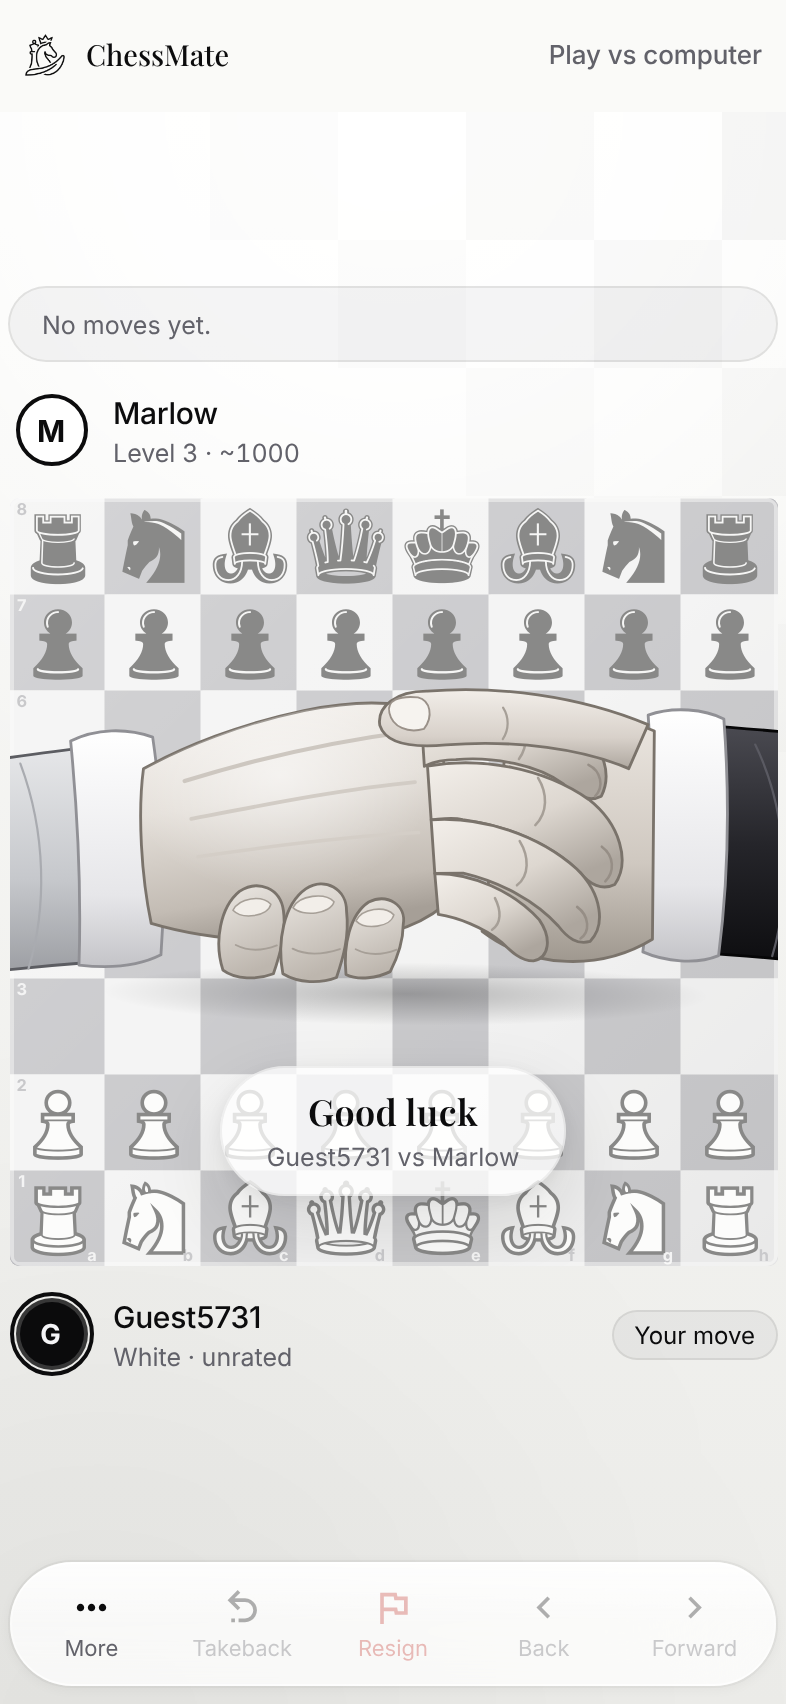
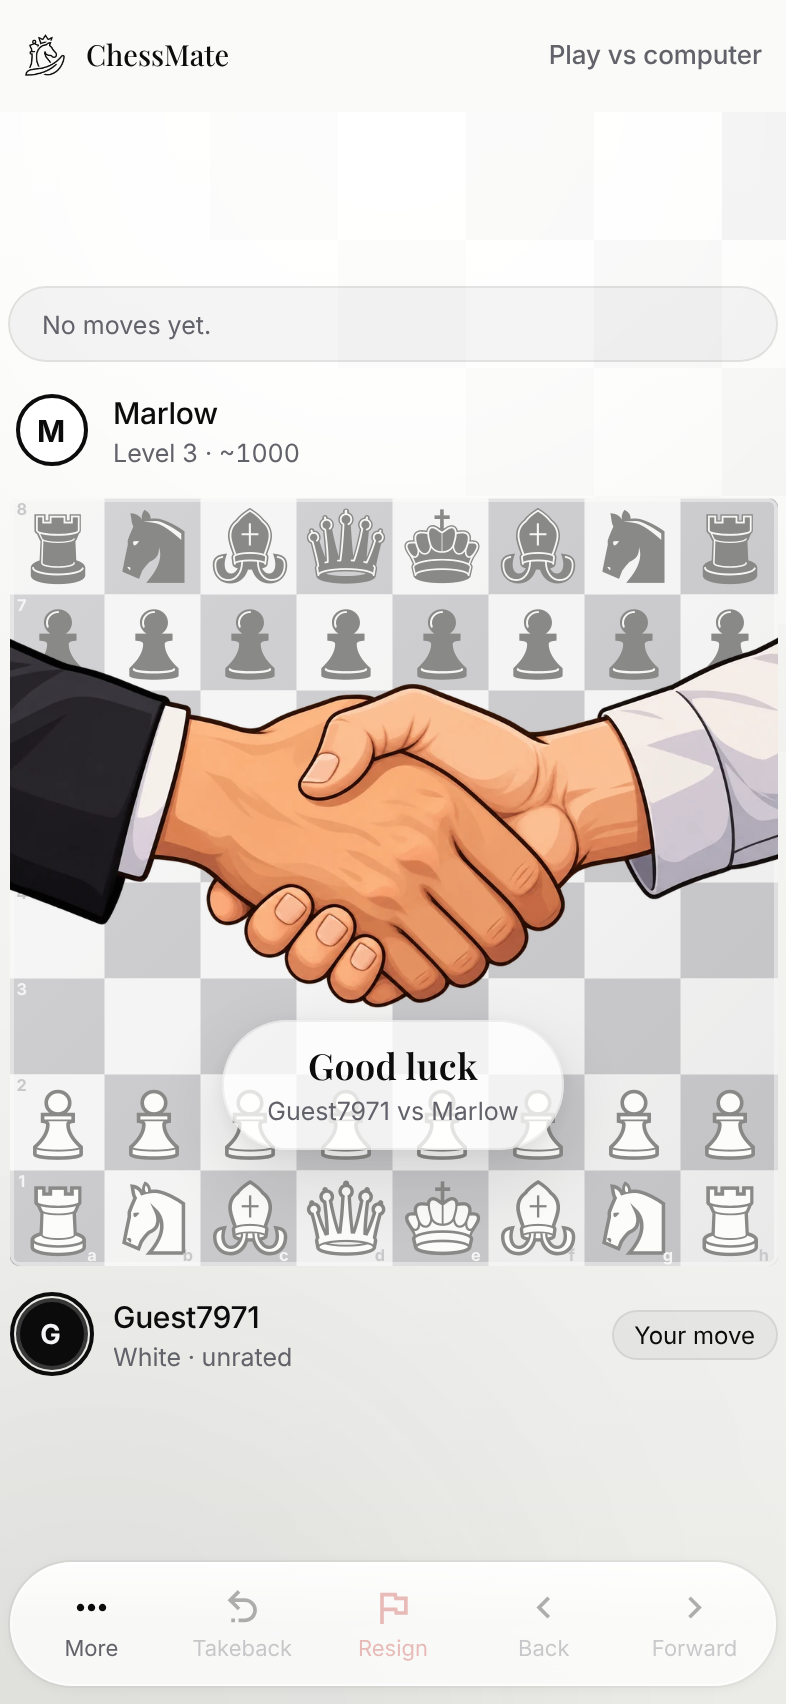
Handshake: use Ahmad's real-looking handshake artwork
Replaces the drawn SVG hands with the supplied image (cropped, 1200 px
WebP with transparency, 71 KB). It comes in, grips, and pumps three
times with a slight elbow swing, then fades; timing, pass-through
touches and the early cut on a move are unchanged.

Claude-Session: https://claude.ai/code/session_01WrkHo5HupAKxnnFKZucVZr

Changed region(s): [[0.0, 0.3732, 1.0, 0.7154], [0.2443, 0.7465, 0.3359, 0.7776]]

diff --git a/apps/app/src/components/play/GameStartHandshake.tsx b/apps/app/src/components/play/GameStartHandshake.tsx
@@ -1,14 +1,13 @@
 import { useCallback, useEffect, useState } from 'react';
 import { StyleSheet, View } from 'react-native';
 import Animated, { Easing, useAnimatedStyle, useReducedMotion, useSharedValue, withDelay, withSequence, withTiming } from 'react-native-reanimated';
-import Svg, { Defs, Ellipse, G, LinearGradient, Path, RadialGradient, Stop } from 'react-native-svg';
 
 import { useT } from '@/i18n';
 import { Text, rimShadow, shadows, useColors } from '@/ui';
 
 /** How long the intro lasts from mount to gone, in ms. */
 export const HANDSHAKE_MS = 1500;
-const ENTER_MS = 360;
+const ENTER_MS = 320;
 const SHAKE_AT = 400;
 const LEAVE_AT = 1200;
 const LEAVE_MS = 290;
@@ -45,167 +44,19 @@ export function useGameStartHandshake(key: string | null, moves: number) {
   return { active, cut: active && moves > 0, done };
 }
 
-// Black-and-white figures drawn like a photo in monochrome: the white player's arm comes in
-// from the left in a light-grey suit, the black player's from the right in a black one. The
-// left hand shows its back, fingers wrapped round the other palm; the right hand's thumb lies
-// over its knuckles and its fingertips curl round the palm edge, as in a real handshake.
-// The view box crops to the clasp; the sleeves run past it and are cut by the board's edge.
-const VB_X = 60;
-const VB_Y = 40;
-const VB_W = 280;
-const VB_H = 154;
-const VIEW_BOX = `${VB_X} ${VB_Y} ${VB_W} ${VB_H}`;
-const LINE = '#7A736B';
-const CREASE = '#A69F97';
-
-/** The black player's sleeve, cuff and the heel of the hand, behind the clasp. */
-function RightBack() {
-  return (
-    <Svg width="100%" height="100%" viewBox={VIEW_BOX}>
-      <Defs>
-        <LinearGradient id="hsSuitR" x1="0" y1="0" x2="0" y2="1">
-          <Stop offset="0" stopColor="#4A4A51" />
-          <Stop offset="0.45" stopColor="#25252A" />
-          <Stop offset="1" stopColor="#08080A" />
-        </LinearGradient>
-        <LinearGradient id="hsCuffR" x1="0" y1="0" x2="0" y2="1">
-          <Stop offset="0" stopColor="#FFFFFF" />
-          <Stop offset="0.7" stopColor="#E6E6E9" />
-          <Stop offset="1" stopColor="#C4C4C8" />
-        </LinearGradient>
-        <LinearGradient id="hsHeel" x1="0" y1="0" x2="0" y2="1">
-          <Stop offset="0" stopColor="#EBE6E0" />
-          <Stop offset="0.6" stopColor="#CFC8C0" />
-          <Stop offset="1" stopColor="#9F988F" />
-        </LinearGradient>
-        <RadialGradient id="hsShadow" cx="0.5" cy="0.5" r="0.5">
-          <Stop offset="0" stopColor="#000" stopOpacity={0.25} />
-          <Stop offset="1" stopColor="#000" stopOpacity={0} />
-        </RadialGradient>
-      </Defs>
-      <Ellipse cx={204} cy={178} rx={96} ry={10} fill="url(#hsShadow)" />
-      <G strokeWidth={0.9} strokeLinejoin="round" strokeLinecap="round">
-        <Path d="M296 92 C 330 94, 370 98, 420 104 L 420 176 C 370 170, 330 166, 296 164 Z" fill="url(#hsSuitR)" stroke="#060607" />
-        <Path d="M314 98 C 324 118, 326 144, 320 165" fill="none" stroke="#5A5A62" strokeWidth={0.7} />
-        <Path d="M280 89 C 288 86, 298 87, 304 90 C 306 114, 306 140, 303 165 C 296 168, 286 167, 279 164 C 282 140, 282 114, 280 89 Z" fill="url(#hsCuffR)" stroke="#909095" />
-        <Path d="M282 94 C 268 88, 250 88, 236 92 L 228 158 C 244 170, 266 170, 282 160 Z" fill="url(#hsHeel)" stroke={LINE} />
-      </G>
-    </Svg>
-  );
-}
-
-/** The white player's arm: sleeve, cuff, the back of the hand and the four fingers wrapped round. */
-function LeftArm() {
-  const hand =
-    'M121 106 C 134 99, 152 92, 172 88 C 188 85, 202 85, 211 89 C 218 102, 220 128, 216 150 C 204 160, 186 162, 168 161 C 152 161, 136 159, 123 155 C 120 140, 119 120, 121 106 Z';
-  return (
-    <Svg width="100%" height="100%" viewBox={VIEW_BOX}>
-      <Defs>
-        <LinearGradient id="hsSuitL" x1="0" y1="0" x2="0" y2="1">
-          <Stop offset="0" stopColor="#E6E7E9" />
-          <Stop offset="0.5" stopColor="#C6C8CC" />
-          <Stop offset="1" stopColor="#8C8E93" />
-        </LinearGradient>
-        <LinearGradient id="hsCuffL" x1="0" y1="0" x2="0" y2="1">
-          <Stop offset="0" stopColor="#FFFFFF" />
-          <Stop offset="0.7" stopColor="#E6E6E9" />
-          <Stop offset="1" stopColor="#C4C4C8" />
-        </LinearGradient>
-        <LinearGradient id="hsBack" x1="0" y1="0" x2="0.2" y2="1">
-          <Stop offset="0" stopColor="#F6F3EF" />
-          <Stop offset="0.45" stopColor="#E4DFD9" />
-          <Stop offset="0.85" stopColor="#C3BCB4" />
-          <Stop offset="1" stopColor="#A69F97" />
-        </LinearGradient>
-        <RadialGradient id="hsGloss" cx="0.45" cy="0.3" r="0.5">
-          <Stop offset="0" stopColor="#FFF" stopOpacity={0.55} />
-          <Stop offset="1" stopColor="#FFF" stopOpacity={0} />
-        </RadialGradient>
-        <LinearGradient id="hsFinger" x1="0" y1="0" x2="0.6" y2="1">
-          <Stop offset="0" stopColor="#F3EFEA" />
-          <Stop offset="0.55" stopColor="#DDD7D0" />
-          <Stop offset="1" stopColor="#ADA69E" />
-        </LinearGradient>
-      </Defs>
-      <G stroke={LINE} strokeWidth={0.9} strokeLinejoin="round" strokeLinecap="round">
-        <Path d="M-20 114 C 20 110, 60 104, 104 99 L 106 167 C 60 170, 20 176, -20 182 Z" fill="url(#hsSuitL)" stroke="#5C5D62" />
-        <Path d="M82 104 C 90 126, 90 150, 84 169" fill="none" stroke="#A9ABB0" strokeWidth={0.7} />
-        <Path d="M98 97 C 106 93, 116 93, 124 96 C 127 118, 128 142, 126 165 C 118 169, 108 169, 100 168 C 101 144, 100 120, 98 97 Z" fill="url(#hsCuffL)" stroke="#909095" />
-        <Path d={hand} fill="url(#hsBack)" />
-        <Path d={hand} fill="url(#hsGloss)" stroke="none" />
-        <Path d="M134 110 C 154 104, 180 98, 205 95" fill="none" stroke="#CDC7C0" strokeWidth={1.3} />
-        <Path d="M136 122 C 158 118, 184 113, 207 111" fill="none" stroke="#D2CCC5" strokeWidth={1.2} />
-        <Path d="M138 134 C 160 131, 186 128, 208 127" fill="none" stroke="#D4CEC7" strokeWidth={1.1} />
-        <Path d="M209 88 C 222 83, 242 84, 256 92 C 266 98, 270 108, 266 116 C 262 118, 258 116, 254 112 C 246 106, 232 103, 220 104 C 216 104, 212 105, 210 106 Z" fill="url(#hsFinger)" />
-        <Path d="M211 106 C 228 103, 248 107, 262 117 C 272 125, 275 137, 270 144 C 266 146, 262 144, 259 140 C 250 131, 236 125, 222 123 C 218 122, 214 123, 212 123 Z" fill="url(#hsFinger)" />
-        <Path d="M212 123 C 228 122, 246 128, 258 139 C 266 147, 267 157, 262 162 C 258 163, 255 161, 252 157 C 245 149, 234 143, 222 140 L 213 140 Z" fill="url(#hsFinger)" />
-        <Path d="M213 140 C 225 140, 238 146, 246 155 C 250 161, 249 167, 244 168 C 240 168, 237 165, 234 162 C 228 157, 220 154, 214 153 Z" fill="url(#hsFinger)" />
-        <G fill="none" stroke={CREASE} strokeWidth={0.8}>
-          <Path d="M240 89 C 243 94, 243 100, 240 104" />
-          <Path d="M246 110 C 249 115, 249 121, 245 125" />
-          <Path d="M240 130 C 243 135, 243 141, 239 144" />
-          <Path d="M232 148 C 234 152, 234 156, 231 158" />
-          <Path d="M262 106 C 266 108, 267 113, 264 116" stroke="#968E86" />
-          <Path d="M266 132 C 270 135, 270 140, 267 143" stroke="#968E86" />
-          <Path d="M258 151 C 262 154, 262 159, 259 161" stroke="#968E86" />
-        </G>
-      </G>
-    </Svg>
-  );
-}
-
-/** The black player's thumb over the other hand's knuckles, and fingertips curled round its palm edge. */
-function RightFront() {
-  const tips = [
-    'M146 171 C 143 162, 145 151, 151 146 C 157 142, 164 145, 165 152 C 166 159, 164 166, 162 172 C 157 174, 150 174, 146 171 Z',
-    'M165 172 C 163 162, 165 150, 172 145 C 178 141, 185 145, 185 152 C 186 160, 184 167, 182 173 C 177 175, 170 175, 165 172 Z',
-    'M185 172 C 184 163, 186 153, 192 149 C 198 146, 204 150, 203 156 C 203 162, 201 167, 199 171 C 195 173, 189 174, 185 172 Z',
-  ];
-  const nails = [
-    'M149 152 C 151 148, 158 147, 161 150 C 160 154, 152 155, 149 152 Z',
-    'M168 151 C 170 147, 178 146, 181 149 C 180 153, 171 154, 168 151 Z',
-    'M188 155 C 190 151, 197 150, 200 153 C 199 157, 191 158, 188 155 Z',
-  ];
-  return (
-    <Svg width="100%" height="100%" viewBox={VIEW_BOX}>
-      <Defs>
-        <LinearGradient id="hsTip" x1="0.3" y1="1" x2="0" y2="0">
-          <Stop offset="0" stopColor="#BDB6AE" />
-          <Stop offset="1" stopColor="#ECE8E3" />
-        </LinearGradient>
-        <LinearGradient id="hsThumb" x1="0" y1="0" x2="0" y2="1">
-          <Stop offset="0" stopColor="#F2EEE9" />
-          <Stop offset="0.6" stopColor="#D8D1CA" />
-          <Stop offset="1" stopColor="#AEA79F" />
-        </LinearGradient>
-      </Defs>
-      <G stroke={LINE} strokeWidth={0.9} strokeLinejoin="round" strokeLinecap="round">
-        {tips.map((d) => (
-          <Path key={d} d={d} fill="url(#hsTip)" />
-        ))}
-        {nails.map((d) => (
-          <Path key={d} d={d} fill="#F2EEE9" stroke={CREASE} strokeWidth={0.5} />
-        ))}
-        <G fill="none" stroke={CREASE} strokeWidth={0.6}>
-          <Path d="M150 163 C 154 165, 158 165, 163 163" />
-          <Path d="M168 164 C 172 166, 177 166, 183 164" />
-          <Path d="M188 164 C 192 166, 196 166, 201 164" />
-        </G>
-        <Path d="M274 106 C 260 100, 238 97, 216 99 C 206 100, 197 99, 195 93 C 194 87, 200 82, 210 82 C 232 80, 258 83, 280 92 Z" fill="url(#hsThumb)" />
-        <Path d="M198 89 C 197 85, 201 83.5, 207 84 C 211 85, 212 90, 209 94 C 204 95.5, 199 93.5, 198 89 Z" fill="#F6F3EF" stroke="#9A9189" strokeWidth={0.6} />
-        <Path d="M234 87 C 236 90, 236 94, 234 97" fill="none" stroke={CREASE} strokeWidth={0.7} />
-      </G>
-    </Svg>
-  );
-}
+// Two real-looking hands in a handshake (artwork supplied by Ahmad): a black suit sleeve on
+// one side, a white shirt sleeve on the other. Transparent, 1200 x 548.
+const HANDSHAKE_IMAGE = require('../../../assets/images/handshake.webp');
+const IMAGE_RATIO = 548 / 1200;
 
 /**
  * Two hands meet over the board and shake when a game begins, with a glass
- * "Good luck" tag. The arms reach in, grip, and pump three times from the
- * elbows, each pump smaller than the last, then let go. About 1.5 s, drawn
- * over the board only, and touches pass straight through so the first move
- * (or a premove) is never held up. A move made during the intro fades it out
- * at once. When it ends it unmounts, so it costs nothing while the game is played.
+ * "Good luck" tag. The handshake comes in, grips, pumps three times (each
+ * pump smaller, swinging slightly as if from the elbows), then lets go. About
+ * 1.5 s, drawn over the board only, and touches pass straight through so the
+ * first move (or a premove) is never held up. A move made during the intro
+ * fades it out at once. When it ends it unmounts, so it costs nothing while
+ * the game is played.
  */
 export function GameStartHandshake({ size, white, black, cut, onDone }: { size: number; white?: string; black?: string; cut?: boolean; onDone?: () => void }) {
   const tr = useT();
@@ -218,9 +69,9 @@ export function GameStartHandshake({ size, white, black, cut, onDone }: { size: 
 
   useEffect(() => {
     enter.set(withTiming(1, { duration: ENTER_MS, easing: Easing.out(Easing.cubic) }));
-    // A gentle squeeze as the hands close.
-    grip.set(withDelay(ENTER_MS - 60, withSequence(withTiming(1, { duration: 110, easing: Easing.out(Easing.quad) }), withTiming(0, { duration: 220 }))));
-    // Three pumps from the elbows, each smaller and a touch slower, then still.
+    // A firm squeeze as the hands close.
+    grip.set(withDelay(ENTER_MS - 80, withSequence(withTiming(1, { duration: 120, easing: Easing.out(Easing.quad) }), withTiming(0, { duration: 240 }))));
+    // Three pumps, each smaller and a touch slower, then still.
     const leg = (ms: number) => ({ duration: ms, easing: Easing.inOut(Easing.sin) });
     shake.set(
       withDelay(
@@ -239,44 +90,31 @@ export function GameStartHandshake({ size, white, black, cut, onDone }: { size: 
   }, [cut, leave, onDone]);
 
   // Wider than the board, so the sleeves run off its edges.
-  const artW = Math.round(size * 1.15);
-  const artH = Math.round((artW * VB_H) / VB_W);
-  const reach = size * 0.16;
-  const lift = artH * 0.05;
+  const artW = Math.round(size * 1.12);
+  const artH = Math.round(artW * IMAGE_RATIO);
+  const lift = artH * 0.07;
 
   const veil = useAnimatedStyle(() => ({ opacity: Math.min(1, enter.value * 1.6) * (1 - leave.value) }));
   const clasp = useAnimatedStyle(() => ({
-    opacity: Math.min(1, enter.value * 1.8) * (1 - leave.value),
-    transform: [{ translateY: -shake.value * lift }, { scaleY: 1 - grip.value * 0.015 }, { scale: 1 - leave.value * 0.04 }],
-  }));
-  // Each forearm turns about its own elbow (off the board's edge), so the clasp rises and falls on an arc.
-  const leftArm = useAnimatedStyle(() => ({
-    transform: [{ translateX: -(1 - enter.value) * reach - leave.value * 8 }, { rotate: `${-shake.value * 2.2}deg` }],
-  }));
-  const rightArm = useAnimatedStyle(() => ({
-    transform: [{ translateX: (1 - enter.value) * reach + leave.value * 8 }, { rotate: `${shake.value * 2.2}deg` }],
+    opacity: Math.min(1, enter.value * 1.6) * (1 - leave.value),
+    transform: [
+      { translateY: (1 - enter.value) * 14 - shake.value * lift },
+      // A slight swing with each pump, as forearms turn at the elbow.
+      { rotate: `${-shake.value * 1.6}deg` },
+      { scale: 0.94 + enter.value * 0.06 - leave.value * 0.04 },
+      { scaleY: 1 - grip.value * 0.02 },
+    ],
   }));
   const tag = useAnimatedStyle(() => {
     const k = Math.max(0, Math.min(1, (enter.value - 0.55) / 0.45));
     return { opacity: k * (1 - leave.value), transform: [{ translateY: (1 - k) * 8 }] };
   });
 
-  const layer = { position: 'absolute' as const, width: artW, height: artH };
   return (
     <View pointerEvents="none" style={[StyleSheet.absoluteFill, styles.root]} accessible accessibilityLabel={tr('game.intro.a11y')} accessibilityLiveRegion="polite">
       <Animated.View style={[StyleSheet.absoluteFill, { backgroundColor: dark ? 'rgba(8,8,10,0.5)' : 'rgba(250,250,248,0.55)' }, veil]} />
       <View style={styles.center}>
-        <Animated.View style={[{ width: artW, height: artH }, clasp]}>
-          <Animated.View style={[layer, styles.rightElbow, rightArm]}>
-            <RightBack />
-          </Animated.View>
-          <Animated.View style={[layer, styles.leftElbow, leftArm]}>
-            <LeftArm />
-          </Animated.View>
-          <Animated.View style={[layer, styles.rightElbow, rightArm]}>
-            <RightFront />
-          </Animated.View>
-        </Animated.View>
+        <Animated.Image source={HANDSHAKE_IMAGE} style={[{ width: artW, height: artH }, clasp]} resizeMode="contain" fadeDuration={0} />
         <Animated.View style={tag}>
           {/* A glass capsule without a live backdrop blur: the blur under a fading layer flickers on web and costs frames on Android. */}
           <View style={[styles.tag, { backgroundColor: c.surfaceStrong, borderColor: c.glassBorder }, rimShadow(c, 'bright'), shadows(c).float]}>
@@ -300,6 +138,4 @@ const styles = StyleSheet.create({
   center: { flex: 1, alignItems: 'center', justifyContent: 'center', gap: 6 },
   tag: { paddingHorizontal: 22, paddingVertical: 10, alignItems: 'center', gap: 2, maxWidth: 320, borderRadius: 999, borderWidth: StyleSheet.hairlineWidth },
   tagTitle: { fontSize: 18, letterSpacing: 0.2 },
-  leftElbow: { transformOrigin: '0% 70%' },
-  rightElbow: { transformOrigin: '100% 70%' },
 });

diff --git a/README.md b/README.md
@@ -85,7 +85,7 @@ The app opens on a welcome screen: create an account, sign in, or tap **Continue
 
 **Liquid Glass look:** the app's bars, header buttons, glass buttons and sheets use Apple's native Liquid Glass on iOS 26 and later (`expo-glass-effect`, included in Expo Go, so no new build is needed). After pulling, run `pnpm install` and start once with `pnpm dev:app --clear`. On older iOS, Android and the web the same surfaces are drawn as blurred glass with a lit edge. Turning on *Reduce Transparency* (iOS Settings, Accessibility, Display & Text Size) switches glass to solid panels.
 
-**Handshake at game start:** when an online, computer or pass-and-play game begins, two hands (a light-grey suit sleeve for White, a black one for Black) reach in over the board, grip and shake from the elbows, with a "Good luck" tag. It lasts about 1.5 seconds, touches pass through it so you can make your first move straight away (a move fades it out at once), and it is skipped when *Reduce Motion* is on. It uses only `react-native-svg` and Reanimated, both in Expo Go, so `git pull` and `pnpm dev:app` are enough; no new build is needed. A reconnect to a game already under way does not replay it.
+**Handshake at game start:** when an online, computer or pass-and-play game begins, a real-looking handshake (Ahmad's artwork, `apps/app/assets/images/handshake.webp`) appears over the board, grips and pumps three times. It lasts about 1.5 seconds, touches pass through it so you can make your first move straight away (a move fades it out at once), and it is skipped when *Reduce Motion* is on. It is a plain image animated with Reanimated, both in Expo Go, so `git pull` and `pnpm dev:app` are enough; no new build is needed. A reconnect to a game already under way does not replay it.
 
 **Sounds on a phone:** game sounds use `expo-audio`, which is in Expo Go, so no new build is needed. After pulling, restart with `pnpm dev:app --clear`. They play with the iPhone silent switch on (turn that off under **Settings → Sound → Play sounds on silent**); if you hear nothing, check the phone's media volume, not the ringer volume.
 
